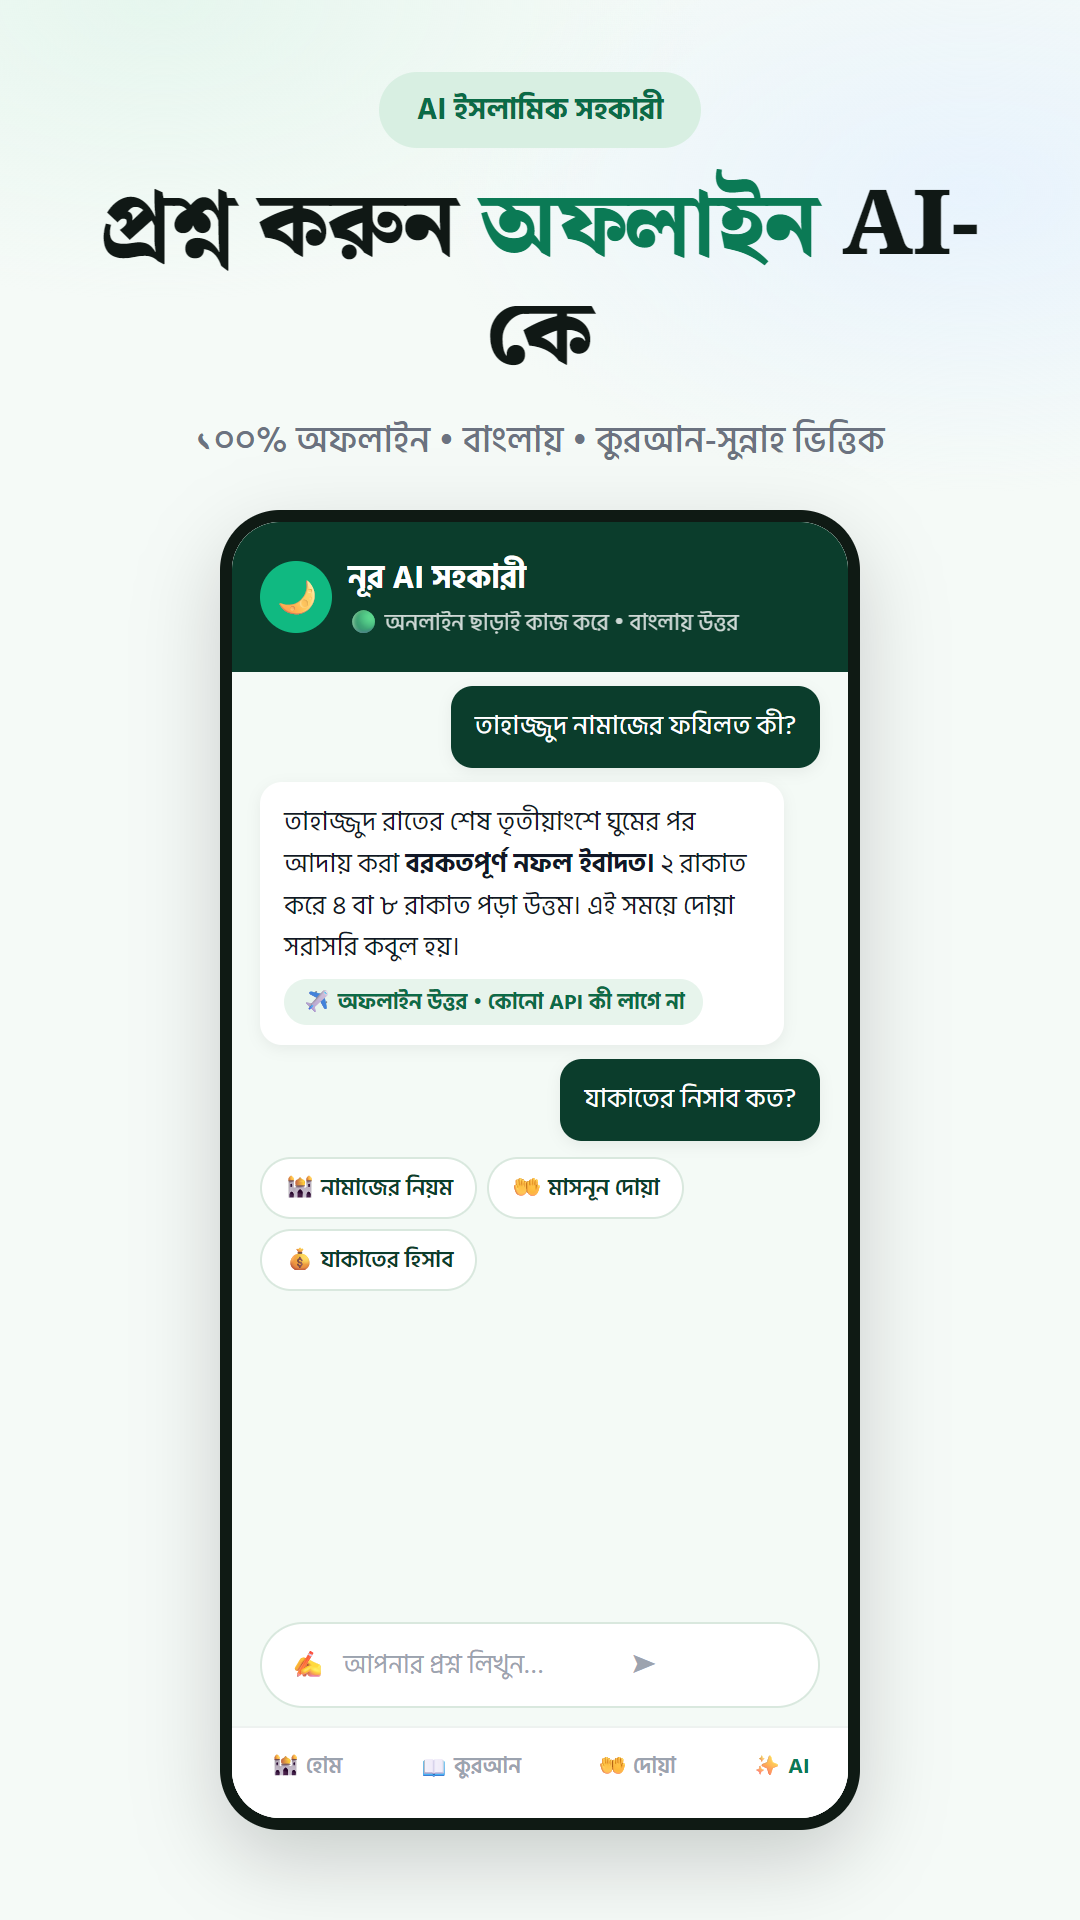
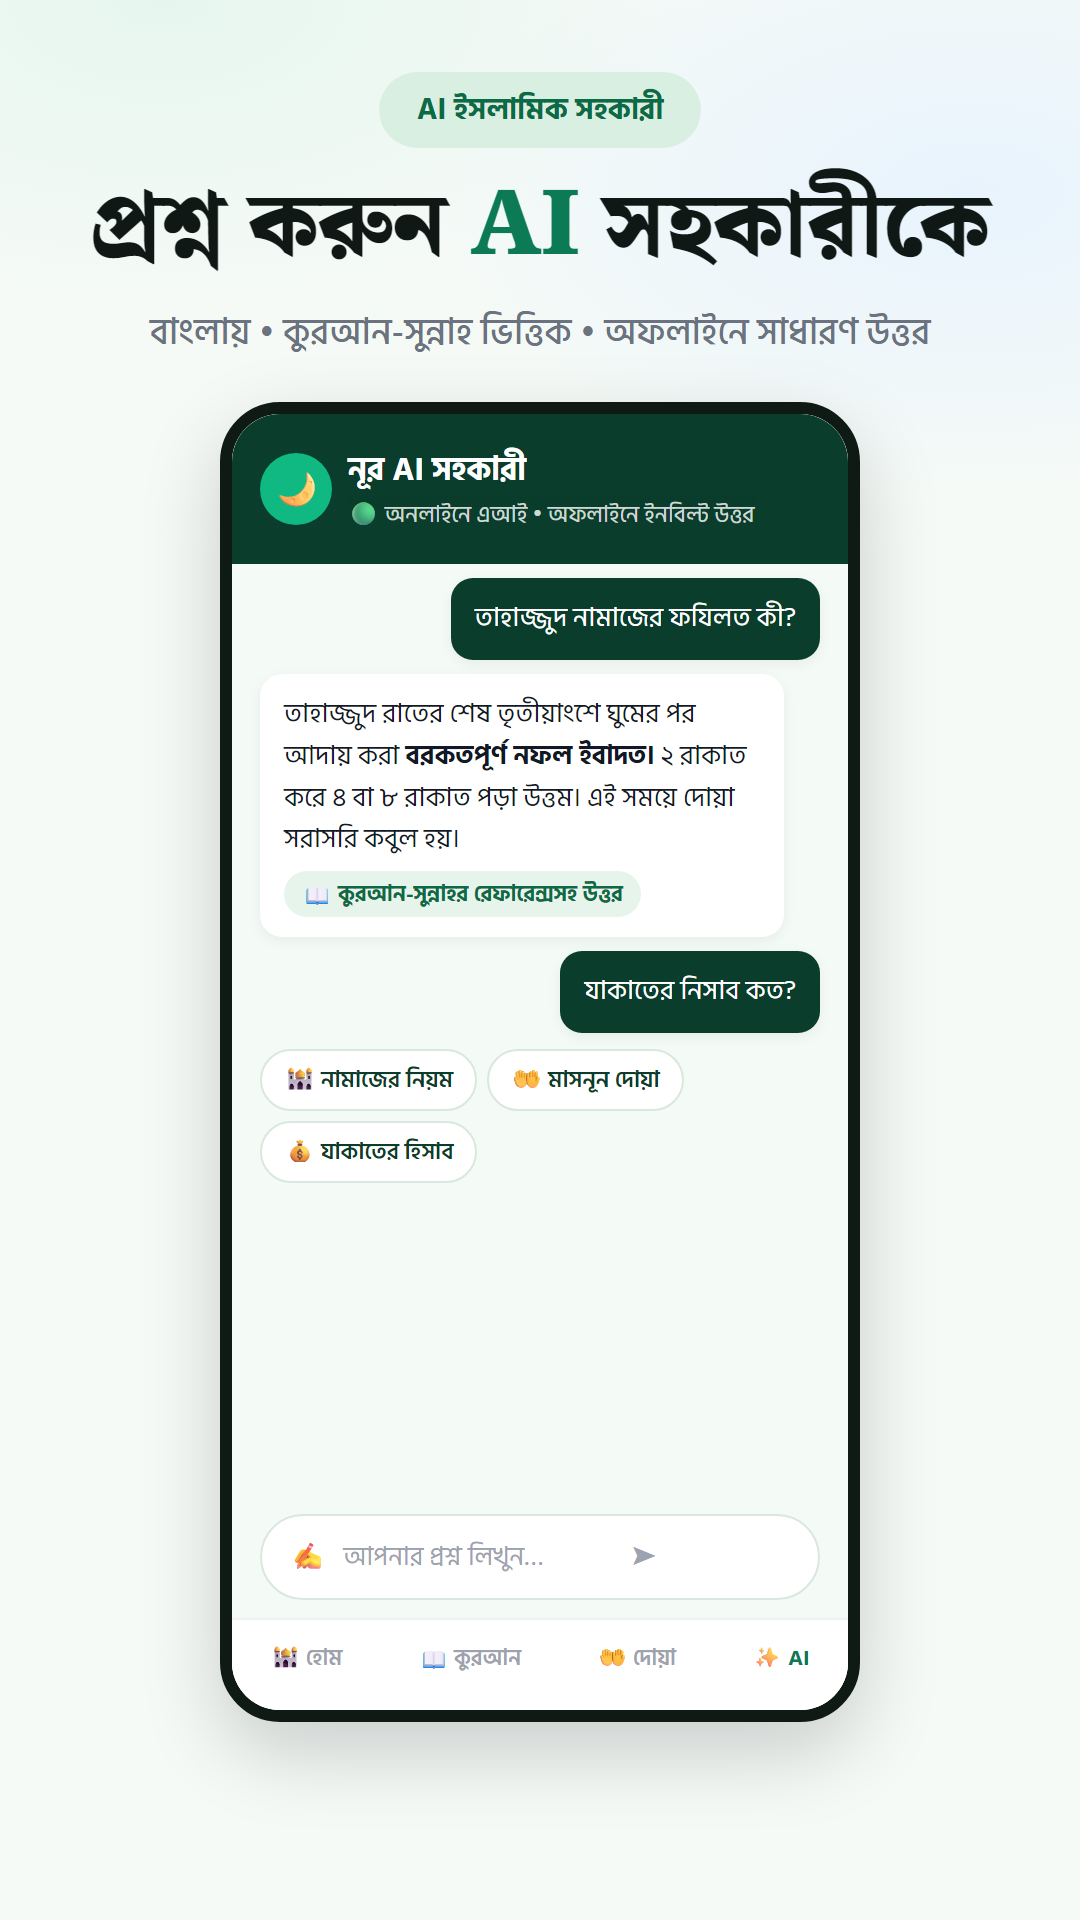
Update Play Store screenshot 07 for AI assistant
Remove "100% offline" and "no API key" claims from the assistant
screenshot now that answers come from the AI online with offline
built-in answers as fallback. Re-export the 1080x1920 PNG.

Changed region(s): [[0.0917, 0.0625, 0.9167, 0.6875], [0.1833, 0.7812, 0.7944, 0.9688], [0.5806, 0.7812, 0.6111, 0.8125]]

diff --git a/store-assets/playstore/corrected/07-ai.html b/store-assets/playstore/corrected/07-ai.html
@@ -27,7 +27,7 @@ h1 .g{color:#0b7a55}.sub{color:#6b7280;font-size:36px;font-weight:500;margin-top
 <div class="phone"><div class="screen">
 <div class="chead"><div class="av">🌙</div><div><div style="font-size:32px;font-weight:800">নূর AI সহকারী</div><div style="font-size:23px;opacity:.8">🟢 অনলাইনে এআই • অফলাইনে ইনবিল্ট উত্তর</div></div></div>
 <div class="bbl me">তাহাজ্জুদ নামাজের ফযিলত কী?</div>
-<div class="bbl">তাহাজ্জুদ রাতের শেষ তৃতীয়াংশে ঘুমের পর আদায় করা <b>বরকতপূর্ণ নফল ইবাদত।</b> ২ রাকাত করে ৪ বা ৮ রাকাত পড়া উত্তম। এই সময়ে দোয়া সরাসরি কবুল হয়। <span class="off">✈ অফলাইন উত্তর • কোনো API কী লাগে না</span></div>
+<div class="bbl">তাহাজ্জুদ রাতের শেষ তৃতীয়াংশে ঘুমের পর আদায় করা <b>বরকতপূর্ণ নফল ইবাদত।</b> ২ রাকাত করে ৪ বা ৮ রাকাত পড়া উত্তম। এই সময়ে দোয়া সরাসরি কবুল হয়। <span class="off">📖 কুরআন-সুন্নাহর রেফারেন্সসহ উত্তর</span></div>
 <div class="bbl me">যাকাতের নিসাব কত?</div>
 <div class="chips"><div class="chip">🕌 নামাজের নিয়ম</div><div class="chip">🤲 মাসনূন দোয়া</div><div class="chip">💰 যাকাতের হিসাব</div></div>
 <div class="input">✍ &nbsp; আপনার প্রশ্ন লিখুন… &nbsp;&nbsp;&nbsp;&nbsp;&nbsp;&nbsp;&nbsp;&nbsp;&nbsp;&nbsp;&nbsp;&nbsp;&nbsp; ➤</div>
